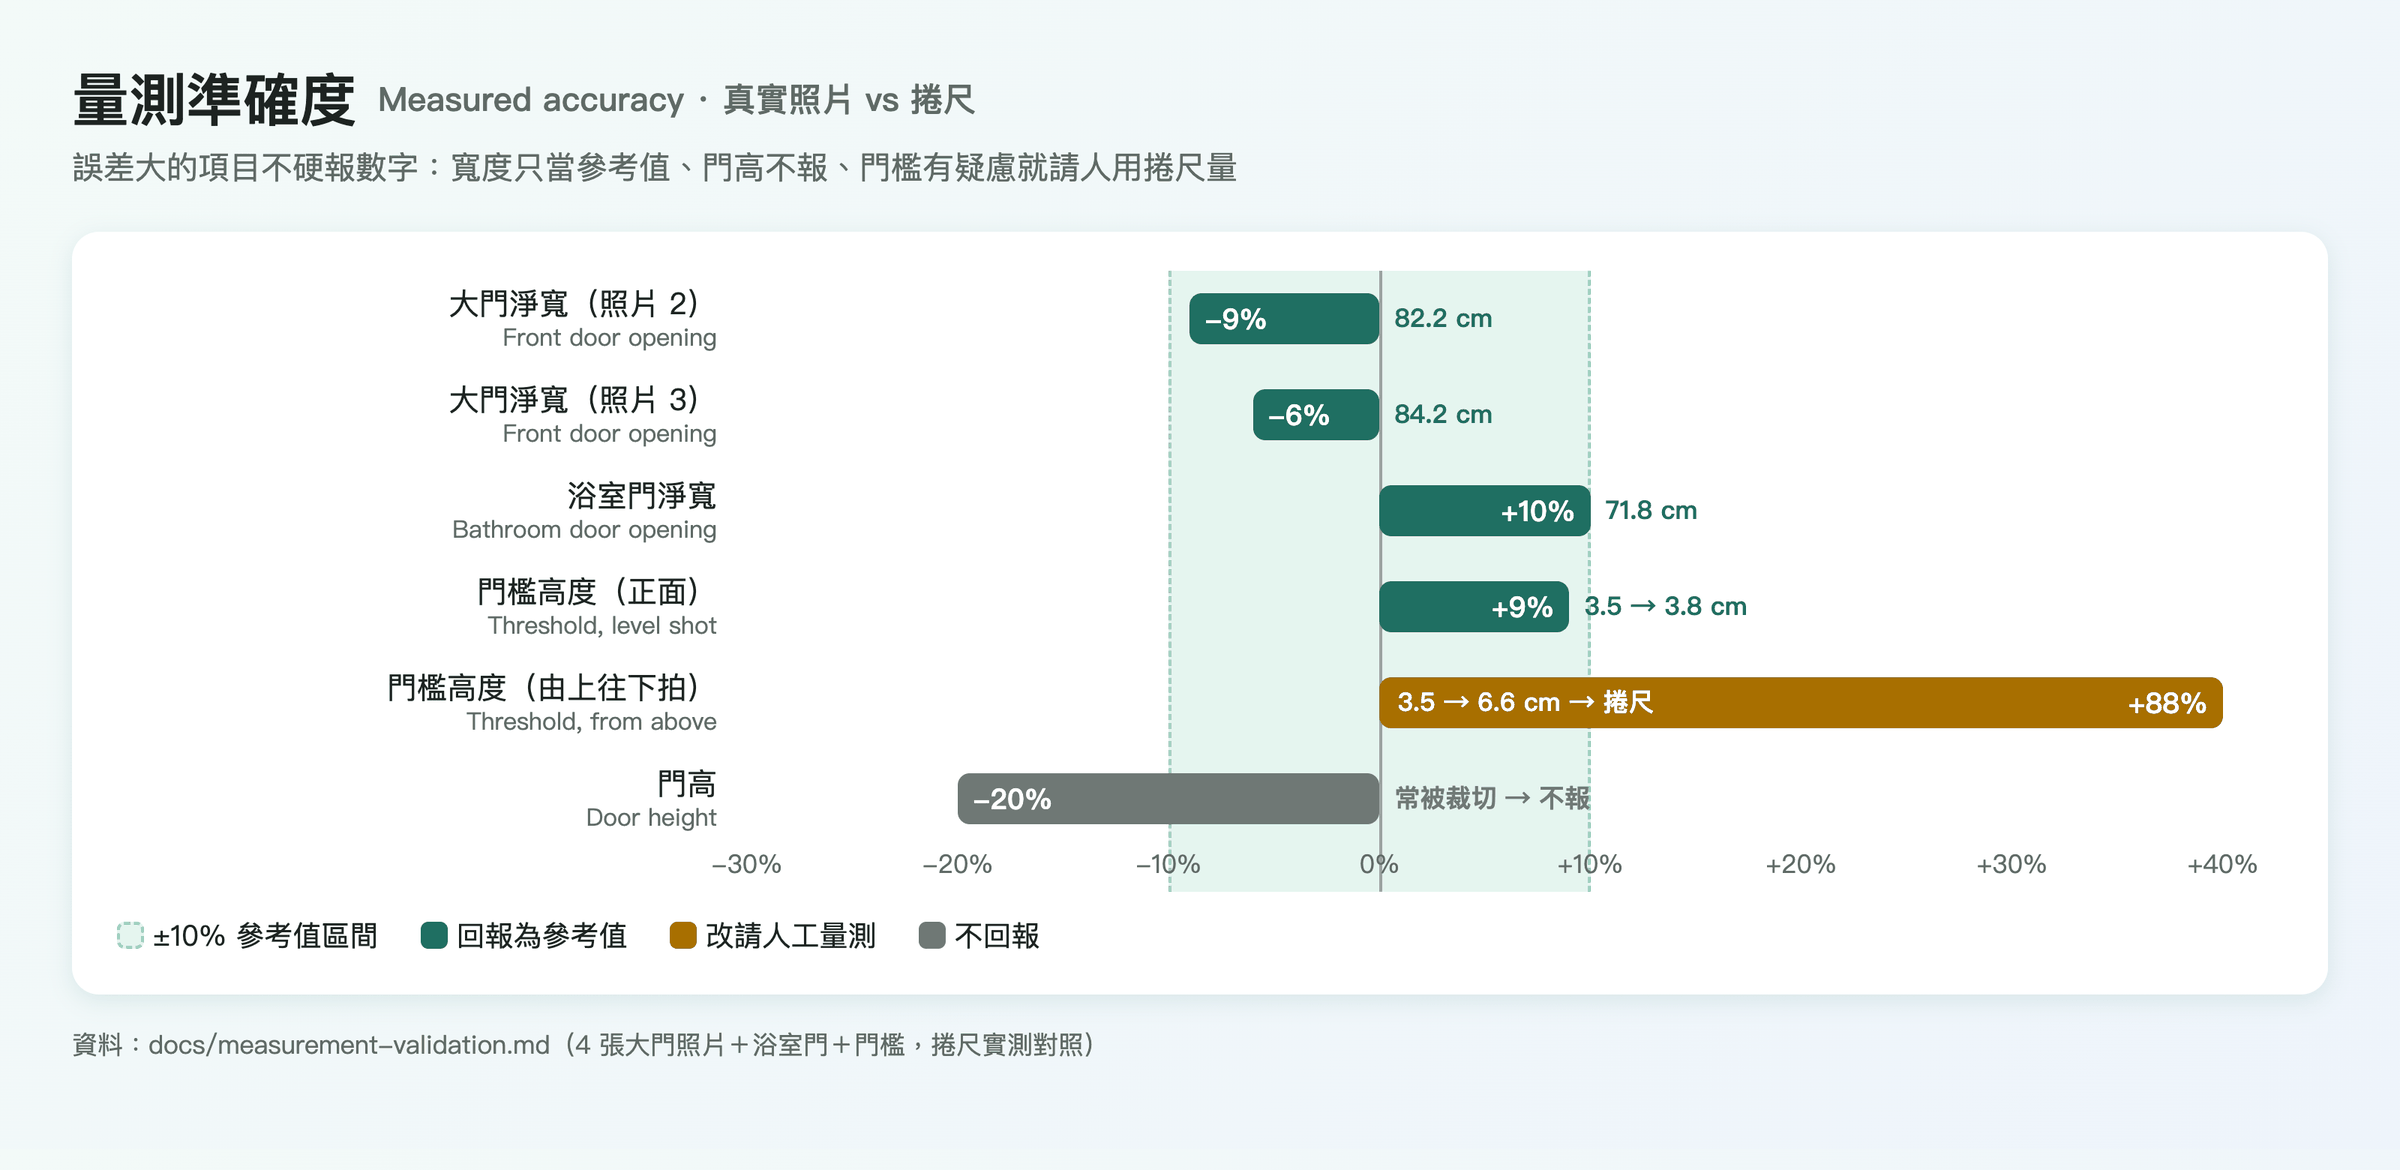
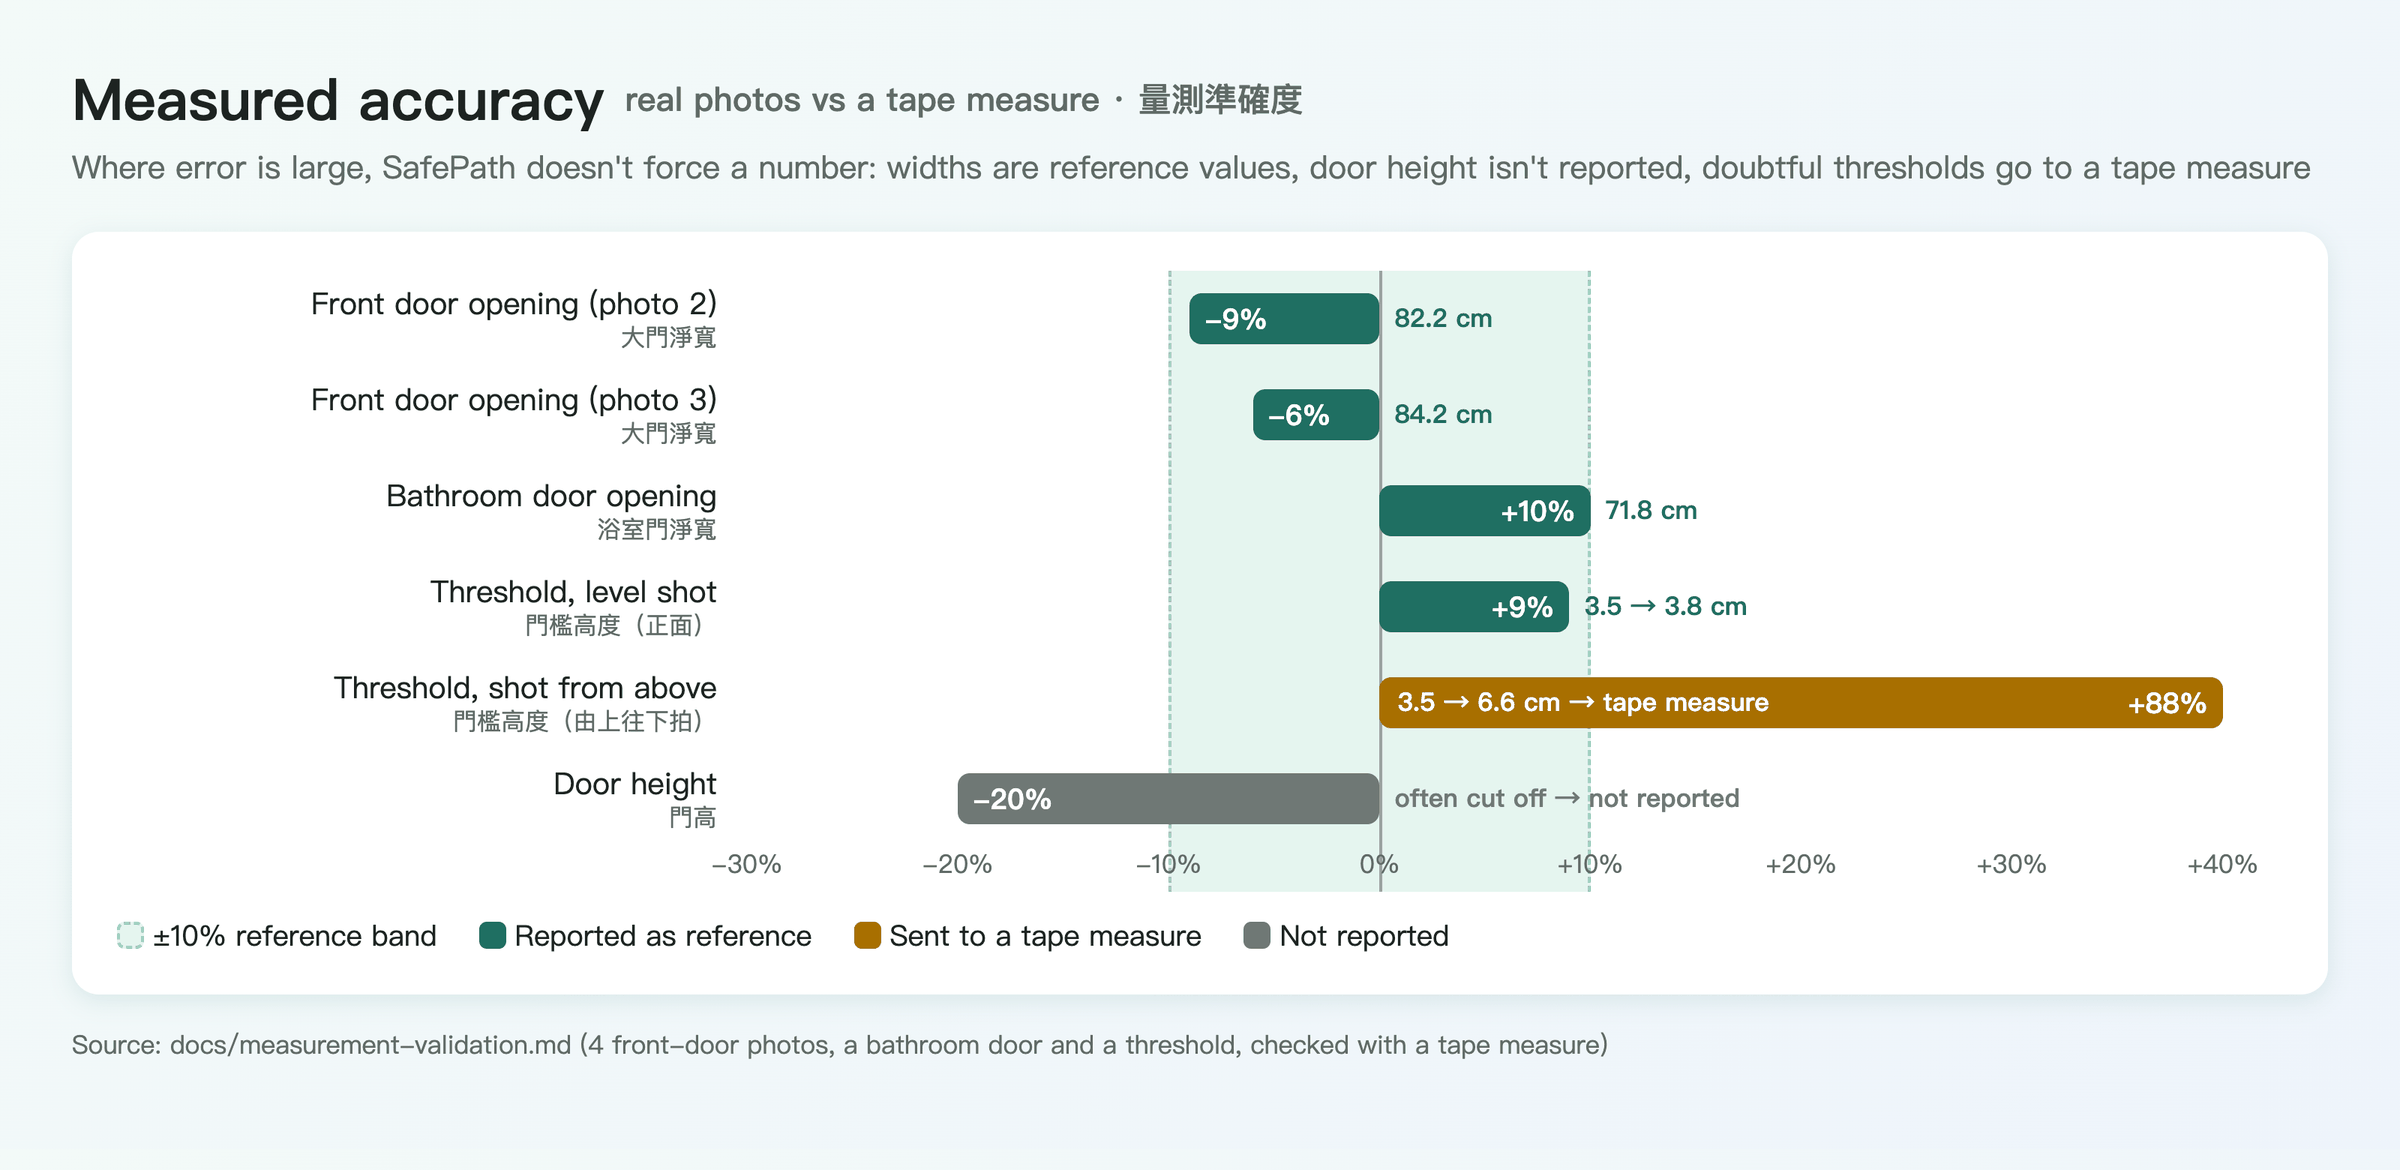
Diagrams: English first, Chinese as a secondary line, for the judges

diff --git a/docs/diagrams/flow.html b/docs/diagrams/flow.html
@@ -2,7 +2,7 @@
 <style>
 .row{display:grid;grid-template-columns:repeat(4,1fr);gap:56px;position:relative}
 .n{background:#fff;border-radius:18px;border-top:8px solid var(--c);box-shadow:0 4px 16px #1f6f621f;padding:20px 20px 18px;position:relative;min-height:200px}
-.n .t{display:flex;gap:12px;align-items:center;font-weight:700;font-size:25px;margin-bottom:6px}
+.n .t{display:flex;gap:12px;align-items:center;font-weight:700;font-size:24px;margin-bottom:6px}
 .n .t svg{color:var(--c);background:var(--b);border-radius:12px;padding:8px;width:52px;height:52px}
 .n .no{position:absolute;top:-18px;right:16px;background:var(--c);color:#fff;border-radius:99px;width:38px;height:38px;display:grid;place-items:center;font-weight:700;font-size:20px}
 .n p{margin:0;font-size:19px;color:var(--muted)}.n .en{font-size:16px;color:#7b8581;margin-top:6px}
@@ -17,19 +17,19 @@
 .r2{direction:rtl}.r2>*{direction:ltr}
 .side{position:absolute;left:24%;top:-30px}
 </style>
-<h1>SafePath AI 流程圖 <small>How it works</small></h1>
-<p class="sub">從拍攝到驗證：看見擋路的東西 → 改善它 → 有證據才由紅轉綠</p>
+<h1>How SafePath AI works <small>流程圖</small></h1>
+<p class="sub">See what blocks the way → fix it → red turns green only with evidence · 看見擋路的東西，改善它，證明它</p>
 <div class="row r1">
- <div class="n c1"><span class="no">1</span><div class="t"><svg viewBox="0 0 24 24"><rect x="2" y="6" width="14" height="12" rx="2"/><path d="m16 10 6-4v12l-6-4"/></svg>手機拍攝</div><p>繞家走一圈拍照或錄影，A4 紙貼門框當比例尺</p><p class="en">Film the home; A4 sheet = scale</p></div>
- <div class="n c2"><span class="no">2</span><div class="t"><svg viewBox="0 0 24 24"><path d="M2 12s3.5-7 10-7 10 7 10 7-3.5 7-10 7S2 12 2 12z"/><circle cx="12" cy="12" r="3"/></svg>SAM 3.1 偵測</div><p>用文字找出門檻、電線、地毯、雜物，影片中持續追蹤</p><p class="en">Text-prompted masks + video tracking</p><span class="tag">Meta SAM 3.1</span></div>
- <div class="n c3"><span class="no">3</span><div class="t"><svg viewBox="0 0 24 24"><path d="M21.3 15.3a2.4 2.4 0 0 1 0 3.4l-2.6 2.6a2.4 2.4 0 0 1-3.4 0L2.7 8.7a2.4 2.4 0 0 1 0-3.4l2.6-2.6a2.4 2.4 0 0 1 3.4 0z"/><path d="m14.5 12.5 2-2M11.5 9.5l2-2M8.5 6.5l2-2M17.5 15.5l2-2"/></svg>量測＋規則判定</div><p>量門寬、門檻高，檢查行走動線；紅黃綠由規則表決定</p><p class="en">Measure; verdicts from a rule table</p></div>
- <div class="n c4"><span class="no">4</span><div class="t"><svg viewBox="0 0 24 24"><rect x="5" y="5" width="14" height="14" rx="2"/><rect x="9" y="9" width="6" height="6"/><path d="M9 1v4M15 1v4M9 19v4M15 19v4M1 9h4M1 15h4M19 9h4M19 15h4"/></svg>Muse Spark 複核</div><p>Agent 對照照片逐項檢查；有疑慮交給人工確認</p><p class="en">Case agent checks each finding</p><span class="tag">Meta Muse Spark</span></div>
+ <div class="n c1"><span class="no">1</span><div class="t"><svg viewBox="0 0 24 24"><rect x="2" y="6" width="14" height="12" rx="2"/><path d="m16 10 6-4v12l-6-4"/></svg>Film the home</div><p>Walk through with a phone; an A4 sheet on the door frame sets the scale</p><p class="en">手機繞家拍攝，A4 紙當比例尺</p></div>
+ <div class="n c2"><span class="no">2</span><div class="t"><svg viewBox="0 0 24 24"><path d="M2 12s3.5-7 10-7 10 7 10 7-3.5 7-10 7S2 12 2 12z"/><circle cx="12" cy="12" r="3"/></svg>SAM 3.1 detects</div><p>Text prompts find thresholds, cables, rugs and clutter; tracked through video</p><p class="en">文字提示找出門檻、電線、地毯、雜物</p><span class="tag">Meta SAM 3.1</span></div>
+ <div class="n c3"><span class="no">3</span><div class="t"><svg viewBox="0 0 24 24"><path d="M21.3 15.3a2.4 2.4 0 0 1 0 3.4l-2.6 2.6a2.4 2.4 0 0 1-3.4 0L2.7 8.7a2.4 2.4 0 0 1 0-3.4l2.6-2.6a2.4 2.4 0 0 1 3.4 0z"/><path d="m14.5 12.5 2-2M11.5 9.5l2-2M8.5 6.5l2-2M17.5 15.5l2-2"/></svg>Measure + rules</div><p>Door width, threshold height, walking path; red / yellow / green from a rule table</p><p class="en">量測並由規則表判定紅黃綠</p></div>
+ <div class="n c4"><span class="no">4</span><div class="t"><svg viewBox="0 0 24 24"><rect x="5" y="5" width="14" height="14" rx="2"/><rect x="9" y="9" width="6" height="6"/><path d="M9 1v4M15 1v4M9 19v4M15 19v4M1 9h4M1 15h4M19 9h4M19 15h4"/></svg>Muse Spark review</div><p>Case agent checks every finding against its photo; doubtful ones go to a person</p><p class="en">Agent 逐項對照照片，有疑慮交人工</p><span class="tag">Meta Muse Spark</span></div>
 </div>
-<div class="down"><span>產出文件</span></div>
+<div class="down"><span>Paperwork · 產出文件</span></div>
 <div class="row r2">
- <div class="n c5"><span class="no">5</span><div class="t"><svg viewBox="0 0 24 24"><path d="M14 2H6a2 2 0 0 0-2 2v16a2 2 0 0 0 2 2h12a2 2 0 0 0 2-2V8z"/><path d="M14 2v6h6M8 13h8M8 17h5"/></svg>工單＋補助草稿</div><p>清除清單、施工工單、長照 2.0 居家無障礙補助申請草稿（PDF）</p><p class="en">Work orders + LTC 2.0 subsidy draft</p></div>
- <div class="n c7"><span class="no">6</span><div class="t"><svg viewBox="0 0 24 24"><path d="M14.7 6.3a1 1 0 0 0 0 1.4l1.6 1.6a1 1 0 0 0 1.4 0l3.8-3.8a6 6 0 0 1-7.9 7.9l-6.9 6.9a2.1 2.1 0 0 1-3-3l6.9-6.9a6 6 0 0 1 7.9-7.9z"/></svg>施工・清除</div><p>家人清走雜物，師傅依工單施工</p><p class="en">Clear clutter, repair</p></div>
- <div class="n c1"><span class="no">7</span><div class="t"><svg viewBox="0 0 24 24"><path d="M21 12a9 9 0 1 1-3-6.7L21 8"/><path d="M21 3v5h-5"/></svg>同路線重拍</div><p>施工後沿同一路線再拍一次</p><p class="en">Re-film the same route</p></div>
- <div class="n c6"><span class="no">8</span><div class="t"><svg viewBox="0 0 24 24"><circle cx="12" cy="12" r="10"/><path d="m8 12 3 3 5-6"/></svg>驗證：紅 → 綠</div><p>Verify Agent 比對前後照片，有證據才轉綠</p><p class="en">Before vs after; green only with evidence</p><span class="tag">Meta Muse Spark</span></div>
+ <div class="n c5"><span class="no">5</span><div class="t"><svg viewBox="0 0 24 24"><path d="M14 2H6a2 2 0 0 0-2 2v16a2 2 0 0 0 2 2h12a2 2 0 0 0 2-2V8z"/><path d="M14 2v6h6M8 13h8M8 17h5"/></svg>Work orders + subsidy</div><p>Clearing list, work orders and a draft LTC 2.0 home-accessibility subsidy pack (PDF)</p><p class="en">清除清單、工單、長照 2.0 補助草稿</p></div>
+ <div class="n c7"><span class="no">6</span><div class="t"><svg viewBox="0 0 24 24"><path d="M14.7 6.3a1 1 0 0 0 0 1.4l1.6 1.6a1 1 0 0 0 1.4 0l3.8-3.8a6 6 0 0 1-7.9 7.9l-6.9 6.9a2.1 2.1 0 0 1-3-3l6.9-6.9a6 6 0 0 1 7.9-7.9z"/></svg>Clear + repair</div><p>Family clears clutter; contractor follows the work orders</p><p class="en">家人清雜物，師傅依工單施工</p></div>
+ <div class="n c1"><span class="no">7</span><div class="t"><svg viewBox="0 0 24 24"><path d="M21 12a9 9 0 1 1-3-6.7L21 8"/><path d="M21 3v5h-5"/></svg>Re-film</div><p>Film the same route again after the fix</p><p class="en">施工後沿同路線重拍</p></div>
+ <div class="n c6"><span class="no">8</span><div class="t"><svg viewBox="0 0 24 24"><circle cx="12" cy="12" r="10"/><path d="m8 12 3 3 5-6"/></svg>Verify: red → green</div><p>Verify agent compares before and after; green only with evidence</p><p class="en">前後比對，有證據才轉綠</p><span class="tag">Meta Muse Spark</span></div>
 </div>
-<p class="foot">紅黃綠判定來自規則表，不由模型決定；邊界值一律交人工量測。 · Verdicts come from rules, not the model.</p>
+<p class="foot">Verdicts come from a rule table, not the model; borderline measurements go to a person with a tape measure. · 判定來自規則表，邊界值交人工量測。</p>

diff --git a/docs/diagrams/rules.html b/docs/diagrams/rules.html
@@ -13,29 +13,29 @@
 .door{display:flex;gap:22px;align-items:center}
 .meter{flex:1;height:30px;border-radius:99px;background:#e5f5ef;position:relative;overflow:hidden}.meter i{position:absolute;inset:0 auto 0 0;width:15%;background:var(--red)}
 </style>
-<h1>紅黃綠怎麼判定 <small>How verdicts are decided</small></h1>
-<p class="sub">依《建築物無障礙設施設計規範》參考值；量測誤差範圍內的一律標「需人工量測」</p>
+<h1>How verdicts are decided <small>紅黃綠怎麼判定</small></h1>
+<p class="sub">Reference values from Taiwan's accessibility design code; anything within measuring error goes to a person · 依《建築物無障礙設施設計規範》參考值</p>
 <div class="card">
- <h2>門檻高度 <small>Threshold height (cm)</small></h2>
+ <h2>Threshold height (cm) <small>門檻高度</small></h2>
  <div class="scale">
-  <div class="band" style="width:25%">邊界值（近 0.5 cm）<br>交人工用捲尺量</div>
-  <div style="width:8.3%;background:var(--yellow)">斜角</div>
-  <div class="band" style="width:33.3%">邊界值（近 3 cm）<br>交人工用捲尺量</div>
-  <div style="width:33.4%;background:var(--red)">應設坡道 Ramp</div>
+  <div class="band" style="width:25%">Borderline (near 0.5 cm)<br>measure by hand · 人工量測</div>
+  <div style="width:8.3%;background:var(--yellow)">Bevel<br>斜角</div>
+  <div class="band" style="width:33.3%">Borderline (near 3 cm)<br>measure by hand · 人工量測</div>
+  <div style="width:33.4%;background:var(--red)">Ramp needed · 應設坡道</div>
  </div>
  <div class="ticks"><span style="left:0">0</span><span style="left:8.3%">0.5</span><span style="left:25%">1.5</span><span style="left:33.3%">2</span><span style="left:50%">3</span><span style="left:66.7%">4</span><span style="left:100%;transform:translateX(-100%)">6+</span></div>
- <div class="legend"><span><b style="background:var(--green)"></b>規範：≤ 0.5 cm 不受限制</span><span><b style="background:var(--yellow)"></b>0.5–3 cm 作 1/2 斜角（規範 202.2）</span><span><b style="background:var(--red)"></b>&gt; 3 cm 應設坡道（202.2、206.1）</span><span><b class="band"></b>與 0.5／3 cm 相差 1 cm 內 → 人工量測（實測誤差 +0.3 cm）</span></div>
+ <div class="legend"><span><b style="background:var(--green)"></b>Code: ≤ 0.5 cm no limit</span><span><b style="background:var(--yellow)"></b>0.5–3 cm: 1/2 bevel (code 202.2)</span><span><b style="background:var(--red)"></b>&gt; 3 cm: ramp (202.2, 206.1)</span><span><b class="band"></b>Within 1 cm of 0.5 / 3 cm → tape measure (tested error +0.3 cm)</span></div>
 </div>
 <div class="two">
  <div class="card">
-  <h2>門洞淨寬 <small>Doorway clear width</small></h2>
-  <div class="door"><span class="big" style="color:var(--blue)">&lt; 80 cm</span><div>輪椅住戶 → <span class="pill" style="background:var(--red)">RED</span><br>助行器住戶 → <span class="pill" style="background:var(--yellow)">YELLOW</span></div></div>
-  <p style="color:var(--muted);font-size:18px;margin:10px 0 0">篩檢參考值（規範 504.2 廁所 80 cm、205.2.3 室內 90 cm），誤差約 ±10%</p>
+  <h2>Doorway clear width <small>門洞淨寬</small></h2>
+  <div class="door"><span class="big" style="color:var(--blue)">&lt; 80 cm</span><div>Wheelchair user → <span class="pill" style="background:var(--red)">RED</span><br>Walker user → <span class="pill" style="background:var(--yellow)">YELLOW</span></div></div>
+  <p style="color:var(--muted);font-size:18px;margin:10px 0 0">Screening reference (code 504.2: 80 cm for toilets; 205.2.3: 90 cm indoors); about ±10% error</p>
  </div>
  <div class="card">
-  <h2>行走動線 <small>Walking path</small></h2>
-  <div class="door"><span class="big" style="color:var(--red)">≥ 15%</span><div>物件壓在推估動線上<br>→ 列入清除清單</div></div>
-  <div class="door" style="margin-top:12px"><div class="meter"><i></i></div><span style="font-size:18px;color:var(--muted)">不在動線上 → 僅記錄 <span class="pill" style="background:var(--green)">GREEN</span></span></div>
+  <h2>Walking path <small>行走動線</small></h2>
+  <div class="door"><span class="big" style="color:var(--red)">≥ 15%</span><div>of an object on the walking path<br>→ goes on the clearing list · 列入清除清單</div></div>
+  <div class="door" style="margin-top:12px"><div class="meter"><i></i></div><span style="font-size:18px;color:var(--muted)">Off the path → noted only <span class="pill" style="background:var(--green)">GREEN</span></span></div>
  </div>
 </div>
-<p class="foot">參考值取自公共建築規範，非專業評估、對私人住宅不具拘束力。 · Reference values for screening, not a professional assessment.</p>
+<p class="foot">Reference values for home screening, taken from a code for public buildings; not a professional assessment. · 非專業評估，對私人住宅不具拘束力。</p>

diff --git a/docs/diagrams/accuracy.html b/docs/diagrams/accuracy.html
@@ -11,21 +11,21 @@
 .out{position:absolute;font-size:17px;font-weight:700;white-space:nowrap}
 .legend{display:flex;gap:28px;font-size:19px;margin-top:16px;flex-wrap:wrap}.legend b{display:inline-block;width:18px;height:18px;border-radius:5px;vertical-align:-2px;margin-right:6px}
 </style>
-<h1>量測準確度 <small>Measured accuracy · 真實照片 vs 捲尺</small></h1>
-<p class="sub">誤差大的項目不硬報數字：寬度只當參考值、門高不報、門檻有疑慮就請人用捲尺量</p>
+<h1>Measured accuracy <small>real photos vs a tape measure · 量測準確度</small></h1>
+<p class="sub">Where error is large, SafePath doesn't force a number: widths are reference values, door height isn't reported, doubtful thresholds go to a tape measure</p>
 <div class="card">
 <div class="chart" id="c"></div>
-<div class="legend"><span><b style="background:#e5f5ef;border:2px dashed #8fcbb6"></b>±10% 參考值區間</span><span><b style="background:var(--brand)"></b>回報為參考值</span><span><b style="background:var(--yellow)"></b>改請人工量測</span><span><b style="background:var(--grey)"></b>不回報</span></div>
+<div class="legend"><span><b style="background:#e5f5ef;border:2px dashed #8fcbb6"></b>±10% reference band</span><span><b style="background:var(--brand)"></b>Reported as reference</span><span><b style="background:var(--yellow)"></b>Sent to a tape measure</span><span><b style="background:var(--grey)"></b>Not reported</span></div>
 </div>
-<p class="foot">資料：docs/measurement-validation.md（4 張大門照片＋浴室門＋門檻，捲尺實測對照）</p>
+<p class="foot">Source: docs/measurement-validation.md (4 front-door photos, a bathroom door and a threshold, checked with a tape measure)</p>
 <script>
 const rows=[
- ['大門淨寬（照片 2）','Front door opening',-9,'brand','82.2 cm'],
- ['大門淨寬（照片 3）','Front door opening',-6,'brand','84.2 cm'],
- ['浴室門淨寬','Bathroom door opening',10,'brand','71.8 cm'],
- ['門檻高度（正面）','Threshold, level shot',9,'brand','3.5 → 3.8 cm'],
- ['門檻高度（由上往下拍）','Threshold, from above',88,'yellow','3.5 → 6.6 cm → 捲尺'],
- ['門高','Door height',-20,'grey','常被裁切 → 不報'],
+ ['Front door opening (photo 2)','大門淨寬',-9,'brand','82.2 cm'],
+ ['Front door opening (photo 3)','大門淨寬',-6,'brand','84.2 cm'],
+ ['Bathroom door opening','浴室門淨寬',10,'brand','71.8 cm'],
+ ['Threshold, level shot','門檻高度（正面）',9,'brand','3.5 → 3.8 cm'],
+ ['Threshold, shot from above','門檻高度（由上往下拍）',88,'yellow','3.5 → 6.6 cm → tape measure'],
+ ['Door height','門高',-20,'grey','often cut off → not reported'],
 ];
 const min=-30,max=40,W=1600-96-60-420-40,x=v=>(v-min)/(max-min)*100;
 const c=document.getElementById('c');let h='<div class="ok" style="left:'+x(-10)+'%;width:'+(x(10)-x(-10))+'%"></div><div class="axis" style="left:'+x(0)+'%"></div>';

diff --git a/templates/home.php b/templates/home.php
@@ -16,7 +16,7 @@
 </div>
 
 <h2><?= $icon('image') ?><?= $t('visual') ?></h2>
-<div class="card figure"><img src="<?= $u('/assets/flow.png') ?>" alt="<?= $e($t('img_flow')) ?>" width="2400" height="1140" loading="lazy"></div>
+<div class="card figure"><img src="<?= $u('/assets/flow.png') ?>" alt="<?= $e($t('img_flow')) ?>" width="2400" height="1200" loading="lazy"></div>
 <div class="card figure"><img src="<?= $u('/assets/rules.png') ?>" alt="<?= $e($t('img_rules')) ?>" width="2400" height="1320" loading="lazy"></div>
 <div class="card figure"><img src="<?= $u('/assets/accuracy.png') ?>" alt="<?= $e($t('img_accuracy')) ?>" width="2400" height="1170" loading="lazy"></div>
 
